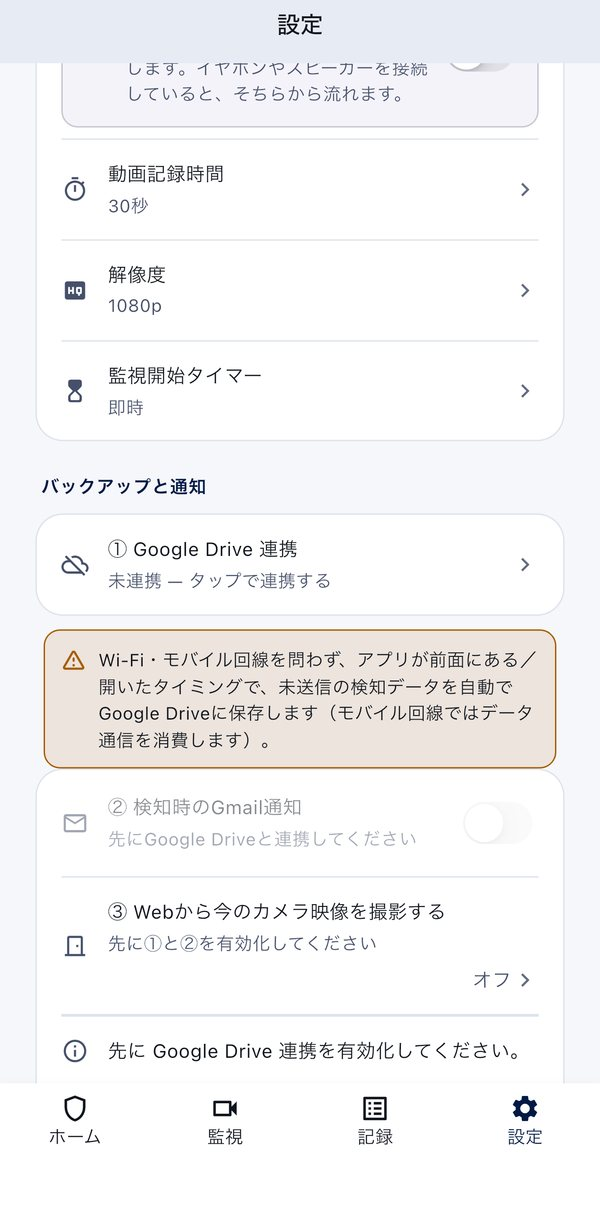
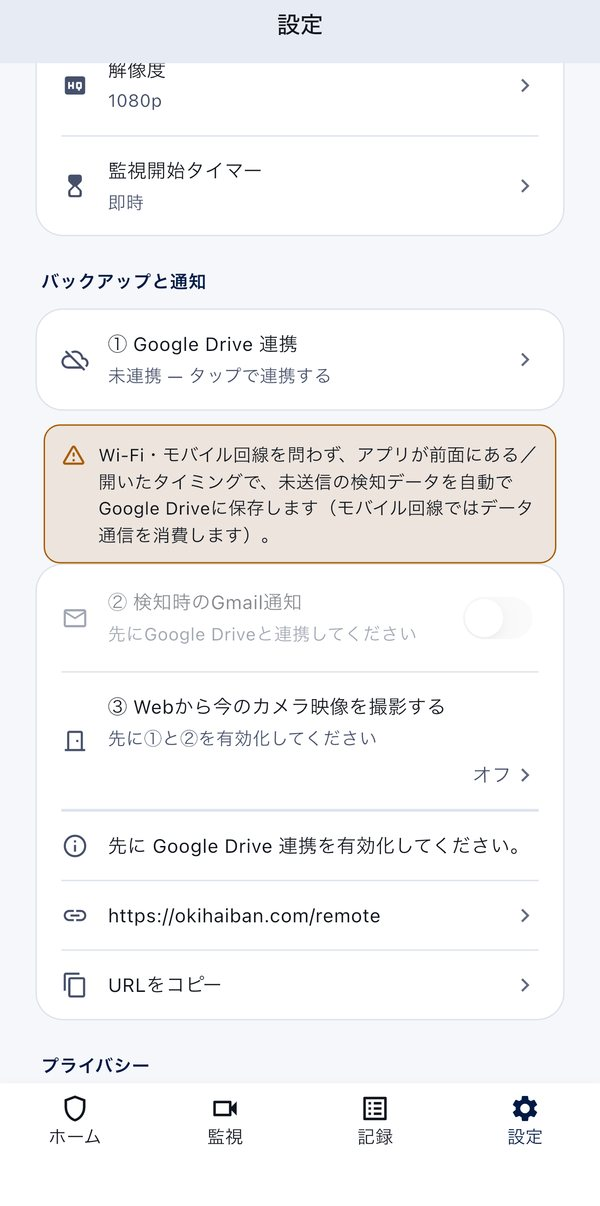
Use settings screens of the released app on the landing page
The settings screenshots were taken from an unreleased build that shows
the motion-detection voice notice. Replace them with screens from the
version on main (same content as the released 1.1.3), drop the voice
notice from the caption, move the tap markers to the new row positions,
and remove the version number from the note.

Claude-Session: https://claude.ai/code/session_01XrfkfwiWtRtcY1P4xNAvRU

diff --git a/public/index.html b/public/index.html
@@ -235,15 +235,15 @@
             <div class="phone-frame">
               <div class="phone-island" aria-hidden="true"></div>
               <div class="phone-screen">
-                <img class="phone-shot is-active" src="/assets/screens/settings-01.jpg" width="600" height="1206" alt="置き配番の設定画面（監視）" data-taps="50,16.3;50,32.8;50,64.8" loading="lazy" decoding="async" />
-                <img class="phone-shot" src="/assets/screens/settings-02.jpg" width="600" height="1206" alt="置き配番の設定画面（バックアップと通知）" data-taps="50,45.6" loading="lazy" decoding="async" />
-                <img class="phone-shot" src="/assets/screens/settings-03.jpg" width="600" height="1206" alt="置き配番の設定画面（リモート撮影とプライバシー）" data-taps="50,49.5;50,62.5" loading="lazy" decoding="async" />
-                <img class="phone-shot" src="/assets/screens/settings-04.jpg" width="600" height="1206" alt="置き配番の設定画面（サポートとアプリ情報）" data-taps="50,38.2;50,80.7" loading="lazy" decoding="async" />
+                <img class="phone-shot is-active" src="/assets/screens/settings-01.jpg" width="600" height="1206" alt="置き配番の設定画面（監視）" data-taps="50,16.3;50,32.9;50,49.9" loading="lazy" decoding="async" />
+                <img class="phone-shot" src="/assets/screens/settings-02.jpg" width="600" height="1206" alt="置き配番の設定画面（バックアップと通知）" data-taps="50,29.7" loading="lazy" decoding="async" />
+                <img class="phone-shot" src="/assets/screens/settings-03.jpg" width="600" height="1206" alt="置き配番の設定画面（リモート撮影とプライバシー）" data-taps="50,32.5;50,45.5" loading="lazy" decoding="async" />
+                <img class="phone-shot" src="/assets/screens/settings-04.jpg" width="600" height="1206" alt="置き配番の設定画面（サポートとアプリ情報）" data-taps="50,37.2;50,79.8" loading="lazy" decoding="async" />
                 <span class="tap-ring" aria-hidden="true"></span>
               </div>
             </div>
             <ol class="screen-captions">
-              <li class="screen-caption is-active" data-index="0"><span>01</span><strong>監視</strong><p>検知方式、動体検知の感度、検知時のフラッシュと音声案内、動画記録時間、解像度、監視開始タイマーを選べます。</p></li>
+              <li class="screen-caption is-active" data-index="0"><span>01</span><strong>監視</strong><p>検知方式、動体検知の感度、検知時のフラッシュ、動画記録時間、解像度、監視開始タイマーを選べます。</p></li>
               <li class="screen-caption" data-index="1"><span>02</span><strong>バックアップと通知</strong><p>Google Drive 連携、検知時の Gmail 通知、Web から今のカメラ映像を撮影する設定をここで有効にします。</p></li>
               <li class="screen-caption" data-index="2"><span>03</span><strong>リモート撮影とプライバシー</strong><p>Web から撮影する頁の URL をコピーでき、アプリのロックや、保存されたデータの削除もここから行えます。</p></li>
               <li class="screen-caption" data-index="3"><span>04</span><strong>サポートとアプリ情報</strong><p>使い方ガイド、課金の状態と月額プラン、バージョン、言語を確かめられます。</p></li>
@@ -255,7 +255,7 @@
             <button class="screen-thumb" type="button" data-index="2" aria-label="リモート撮影とプライバシーの画面を表示"><img src="/assets/screens/settings-03.jpg" width="600" height="1206" alt="" loading="lazy" decoding="async" /><span>リモート撮影とプライバシー</span></button>
             <button class="screen-thumb" type="button" data-index="3" aria-label="サポートとアプリ情報の画面を表示"><img src="/assets/screens/settings-04.jpg" width="600" height="1206" alt="" loading="lazy" decoding="async" /><span>サポートとアプリ情報</span></button>
           </div>
-          <p class="screens-note">画面は iPhone 版（バージョン 1.1.3）で撮影した設定画面です。</p>
+          <p class="screens-note">画面は iPhone 版で撮影した設定画面です。</p>
         </div>
       </section>
 
